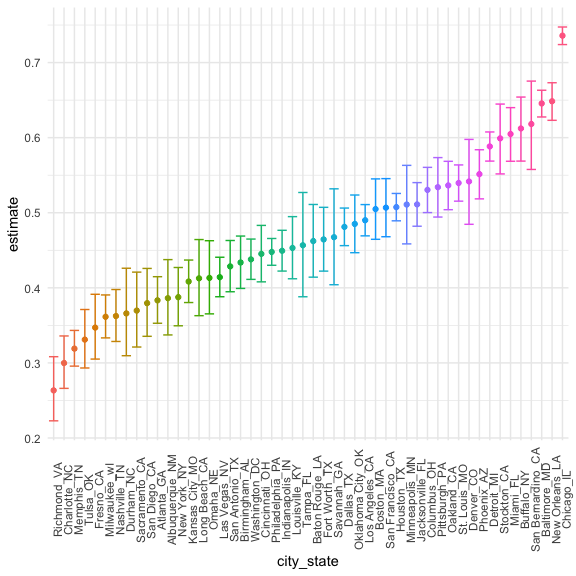
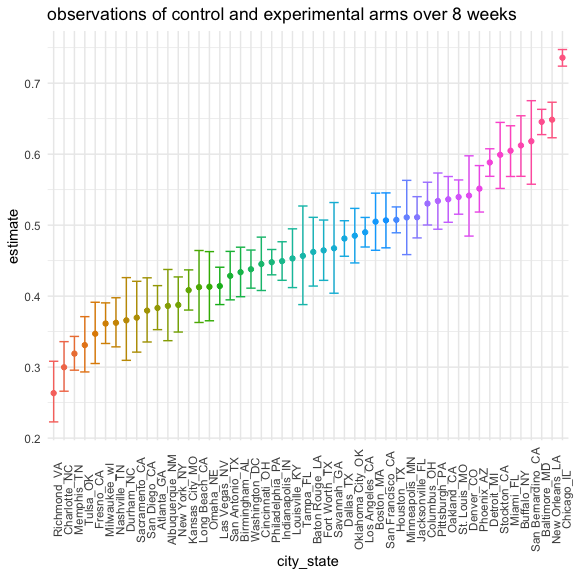
p3. power proportion

diff --git a/p8105_hw5_np2619.md b/p8105_hw5_np2619.md
@@ -138,7 +138,9 @@ estimate_plot = estimate_prop %>%
   ggplot(aes(x = city_state, y = estimate, color = city_state)) +
   geom_point(alpha = 3) +
   geom_errorbar(aes(ymax = conf.high, ymin = conf.low)) +
-  theme(legend.position = "none", axis.text.x = element_text(angle = 90))
+  theme(legend.position = "none", axis.text.x = element_text(angle = 90)) +
+  labs(title = "observations of control and experimental arms over 8 weeks"
+  )
 
 estimate_plot
 ```
@@ -405,11 +407,11 @@ study_df %>%
 <img src="p8105_hw5_np2619_files/figure-gfm/unnamed-chunk-8-1.png" width="90%" />
 There are some visual differences in the control and experimental
 outcomes of this longitudinal study. Both control and experimental
-observations varied between -1.25 and 2.75. Throughout the weeks, the
-experimental observations trended upwards and the control observations
-remained relatively the same. The control group looks like it trended
-slightly downward, but it is difficult to tell whether this is the true
-effect, or due to a smaller sample size.
+observations consistently varied between -1.25 and 2.75. Throughout the
+weeks, the experimental observations trended upwards and the control
+observations remained relatively the same. The control group looks like
+it trended slightly downward, but it is difficult to tell whether this
+is the true effect, or due to a smaller sample size.
 
 ## Problem 3
 
@@ -445,5 +447,31 @@ sim_results =
   select(-output_lists) %>% 
   unnest(ttest_df)
 ```
+
+#### Proportion of null rejected (power)
+
+``` r
+proportion = 
+  sim_results %>% 
+  filter(pvalue < 0.05) %>% 
+  group_by(true_mu) %>% 
+  mutate(
+    rejected = n(),
+    power = rejected / 5000) %>% 
+  ggplot(aes(x = true_mu, y = power)) +
+  geom_point() +
+  labs(
+    title = "power by true mean",
+    xlab = "true mean",
+    ylab = "power"
+  )
+proportion
+```
+
+<img src="p8105_hw5_np2619_files/figure-gfm/unnamed-chunk-11-1.png" width="90%" />
+
+This outcome is very surprising to me. I would expect mu = 6 to be
+rejected more and have a higher power than all the other mu’s. I would
+expect all others to have decreasing power.
 
 ####
